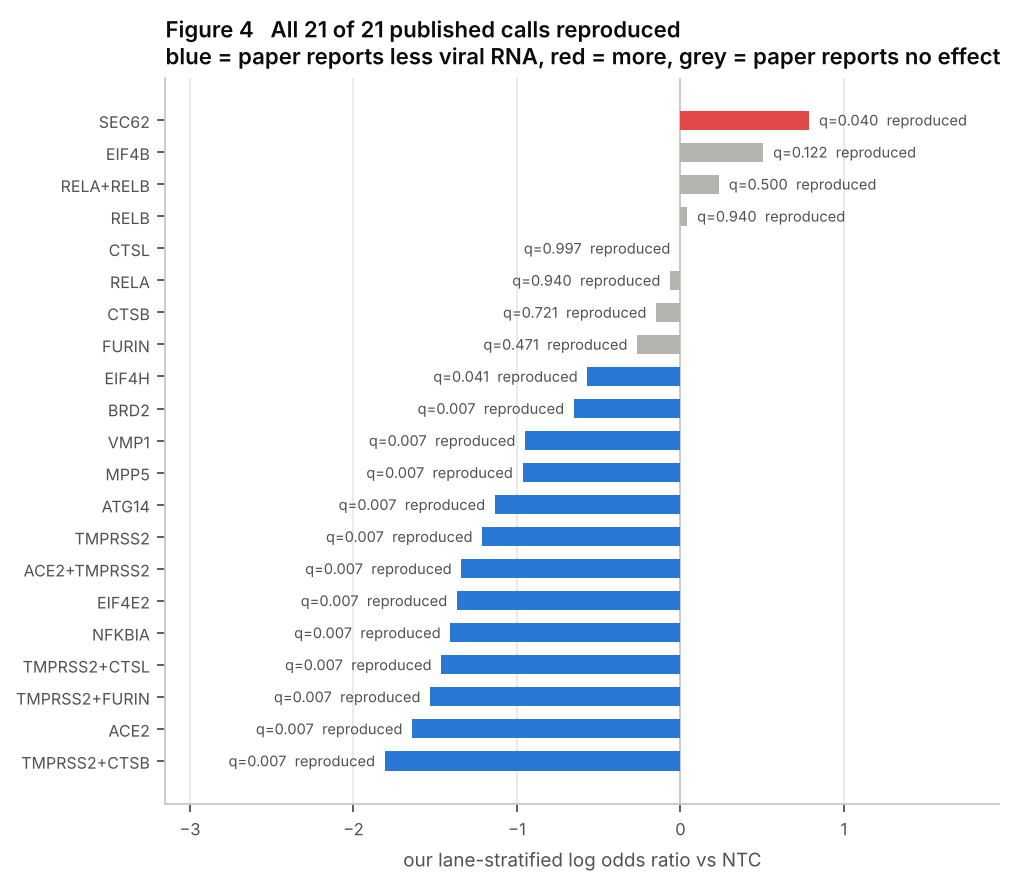
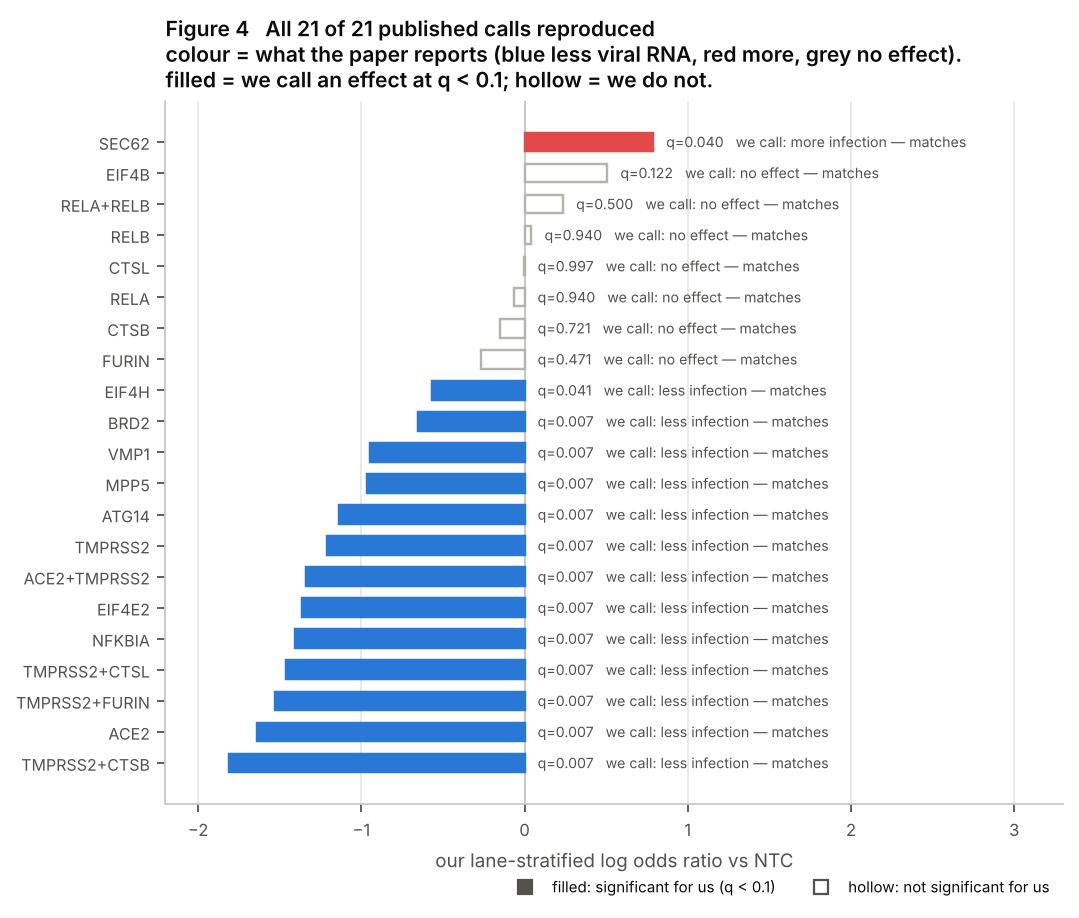
fig 1: separate my calls from the paper's
fill = q < 0.1

Changed region(s): [[0.0, 0.0, 0.9764, 0.9741], [0.9154, 0.8828, 0.9459, 0.9132], [0.7628, 0.8828, 0.7933, 0.9132]]

diff --git a/scripts/10_figures.py b/scripts/10_figures.py
@@ -286,27 +286,47 @@ def figure4():
     colors = [BLUE if d == "down" else RED if d == "up" else NEUTRAL
               for d in con.paper_direction]
 
-    fig, ax = plt.subplots(figsize=(6.4, 5.6))
+    # Fill carries OUR call, colour carries the paper's claim:
+    #   solid bar  = we call an effect (q < 0.1)
+    #   hollow bar = we do not
+    # So a hollow grey bar, however long, is a target both we and the paper call
+    # null: bar length alone is not a claim.
+    called = (con.infection_q < 0.1).to_numpy()
+
+    fig, ax = plt.subplots(figsize=(6.8, 5.8))
     ax.axvline(0, color="#c9c8c3", linewidth=0.9, zorder=1)
-    ax.barh(y, con.infection_log_or, color=colors, height=0.6, zorder=2,
-            linewidth=0)
+    ax.barh(y, con.infection_log_or,
+            color=[c if k else "none" for c, k in zip(colors, called)],
+            edgecolor=colors, linewidth=1.1, height=0.6, zorder=2)
     for i, (_, r) in enumerate(con.iterrows()):
-        mark = "reproduced" if r.agrees else "discrepant"
-        off = 0.06 if r.infection_log_or >= 0 else -0.06
-        ha = "left" if r.infection_log_or >= 0 else "right"
-        ax.text(r.infection_log_or + off, i, f"q={r.infection_q:.3f}  {mark}",
-                va="center", ha=ha, fontsize=6.6, color=INK2)
+        our = {"down": "we call: less infection",
+               "up": "we call: more infection",
+               "ns": "we call: no effect"}[r.infection_called]
+        tick = "matches" if r.agrees else "DISAGREES"
+        # every label sits in the empty right half, so nothing collides with a
+        # bar or with the target names on the left
+        xpos = max(r.infection_log_or, 0) + 0.08
+        ax.text(xpos, i, f"q={r.infection_q:.3f}   {our} — {tick}",
+                va="center", ha="left", fontsize=6.4, color=INK2)
     ax.set_yticks(y)
     ax.set_yticklabels(con.target, fontsize=7.2)
     style(ax, grid_axis="x")
     ax.set_xlabel("our lane-stratified log odds ratio vs NTC")
-    ax.set_xlim(-3.15, 1.95)
+    ax.set_xlim(-2.2, 3.3)
     n_ok = int(con.agrees.sum())
     ax.set_title(
         f"Figure 4   All {n_ok} of {len(con)} published calls reproduced\n"
-        "blue = paper reports less viral RNA, red = more, grey = paper reports no effect",
-        loc="left", fontsize=10,
+        "colour = what the paper reports (blue less viral RNA, red more, grey no effect).\n"
+        "filled = we call an effect at q < 0.1; hollow = we do not.",
+        loc="left", fontsize=9.5,
     )
+    ax.legend(handles=[
+        Line2D([], [], marker="s", color=INK2, linestyle="", markersize=6,
+               label="filled: significant for us (q < 0.1)"),
+        Line2D([], [], marker="s", markerfacecolor="none", markeredgecolor=INK2,
+               color=INK2, linestyle="", markersize=6,
+               label="hollow: not significant for us"),
+    ], loc="upper right", bbox_to_anchor=(1.0, -0.085), ncol=2, fontsize=6.8)
     fig.tight_layout()
     fig.savefig(fig_path("fig4_concordance.png"))
     plt.close(fig)

diff --git a/README.md b/README.md
@@ -40,9 +40,23 @@ own script:
 
 ![Figure 4](results/figures/fig4_concordance.png)
 
-Every published call lands in the right direction. The 14 reported hits are
-significant at q < 0.05 and the 7 reported non-hits are not significant, with the
-largest of them (EIF4B, q = 0.12) still short of the threshold.
+**How to read this.** Bar colour is what the *paper* claims; fill is what *we*
+call. "Reproduced" means our call agrees with the paper's, and that includes
+agreeing that a target has no effect — so the seven grey bars are reproductions
+too, not failures.
+
+The cutoff for calling an effect is **q < 0.1**, Benjamini-Hochberg across the 184
+elements tested for this phenotype, on permutation p-values. Nothing else is a
+threshold: bar length on its own is not a claim, which is why the targets we call
+null are drawn hollow however long their bar is.
+
+On that cutoff the 14 reported hits all clear q < 0.05 and the 7 reported non-hits
+all fail it. The closest call is EIF4B: a 1.66× increase in infection odds on 111
+cells, with a raw permutation p of 0.02 that becomes q = 0.12 once corrected across
+184 elements. So it is the multiple-testing correction, not the test, that makes it
+null — which is the honest way to describe it, and the one target here where a
+larger screen could plausibly change the answer. It still agrees with the paper,
+which also reports no effect.
 
 ### Infection calling, and what it rests on
 
